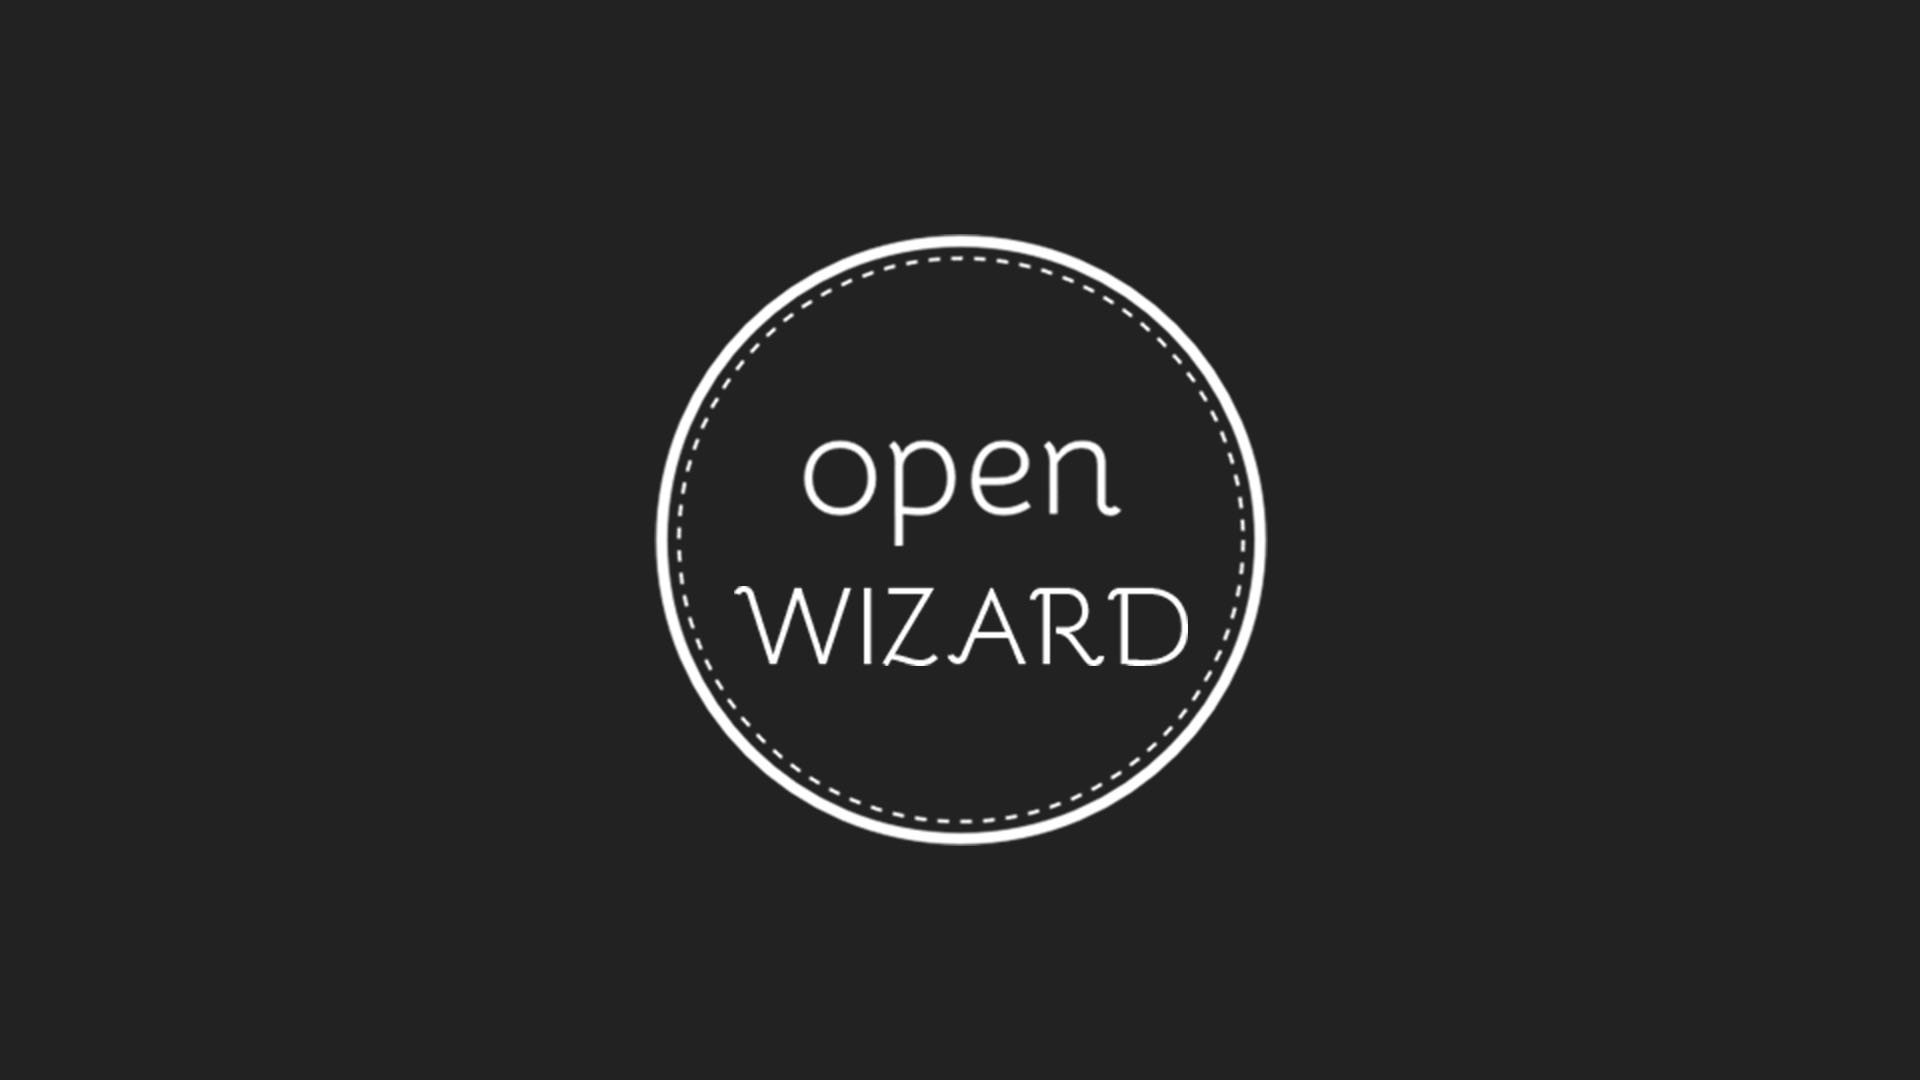
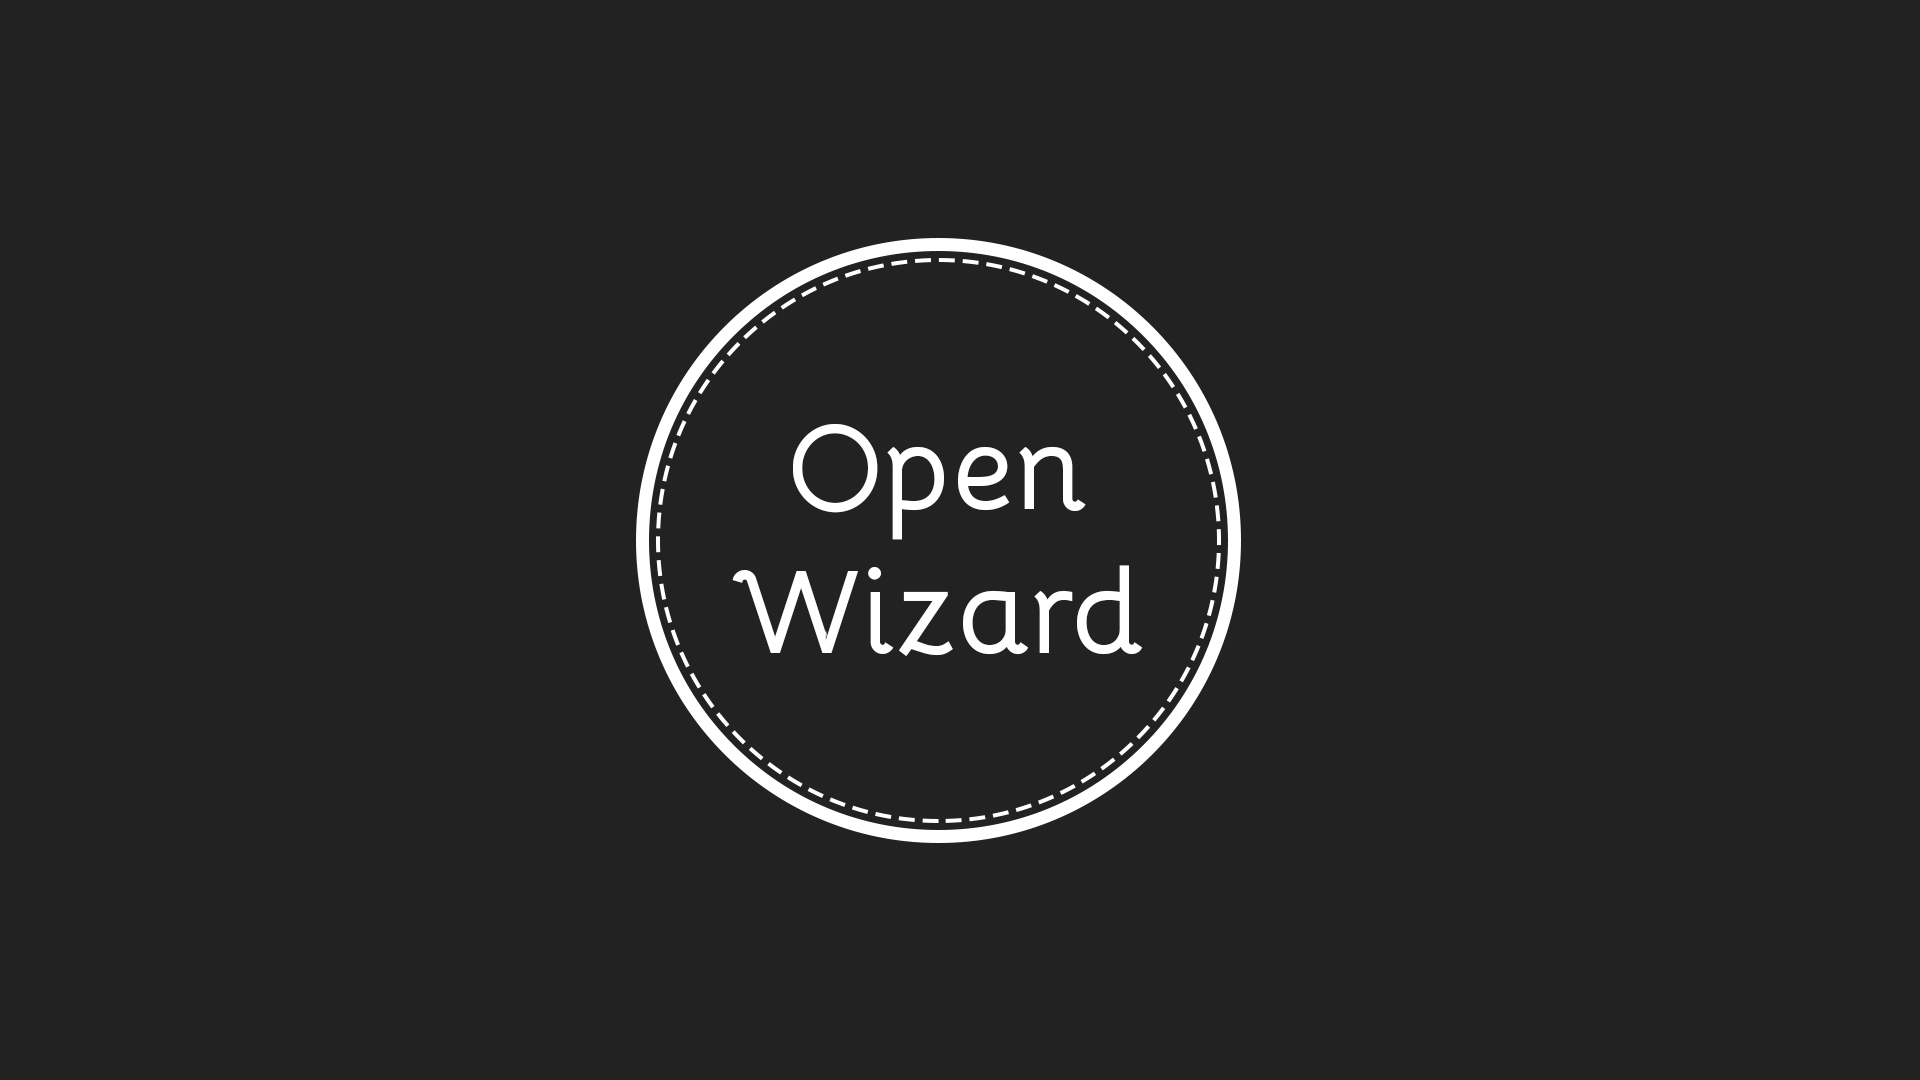
:art: - Update artwork

Changed region(s): [[0.3125, 0.2139, 0.6875, 0.7944], [0.4062, 0.3972, 0.5938, 0.4889]]

diff --git a/uservar.py b/uservar.py
@@ -42,7 +42,7 @@ ADVANCEDFILE = 'http://'
 #           ICONSETTINGS  = 'https://www.yourhost.com/repo/wizard/settings.png'
 # Leave as http:// for default icon
 ICONBUILDS = os.path.join(ART, 'builds.png')
-ICONMAINT = os.path.join(ART, 'Maintenance.png')
+ICONMAINT = os.path.join(ART, 'maintenance.png')
 ICONSPEED = os.path.join(ART, 'speed.png')
 ICONAPK = os.path.join(ART, 'apkinstaller.png')
 ICONADDONS = os.path.join(ART, 'addoninstaller.png')
@@ -116,7 +116,7 @@ NOTIFICATION = 'http://'
 HEADERTYPE = 'Text'
 # Font size of header
 FONTHEADER = 'Font14'
-HEADERMESSAGE = '[COLOR limegreen]Open[/COLOR]Wizard'
+HEADERMESSAGE = '[COLOR limegreen][B]Open[/B][/COLOR]Wizard'
 # url to image if using Image 424x180
 HEADERIMAGE = 'http://'
 # Font for Notification Window
